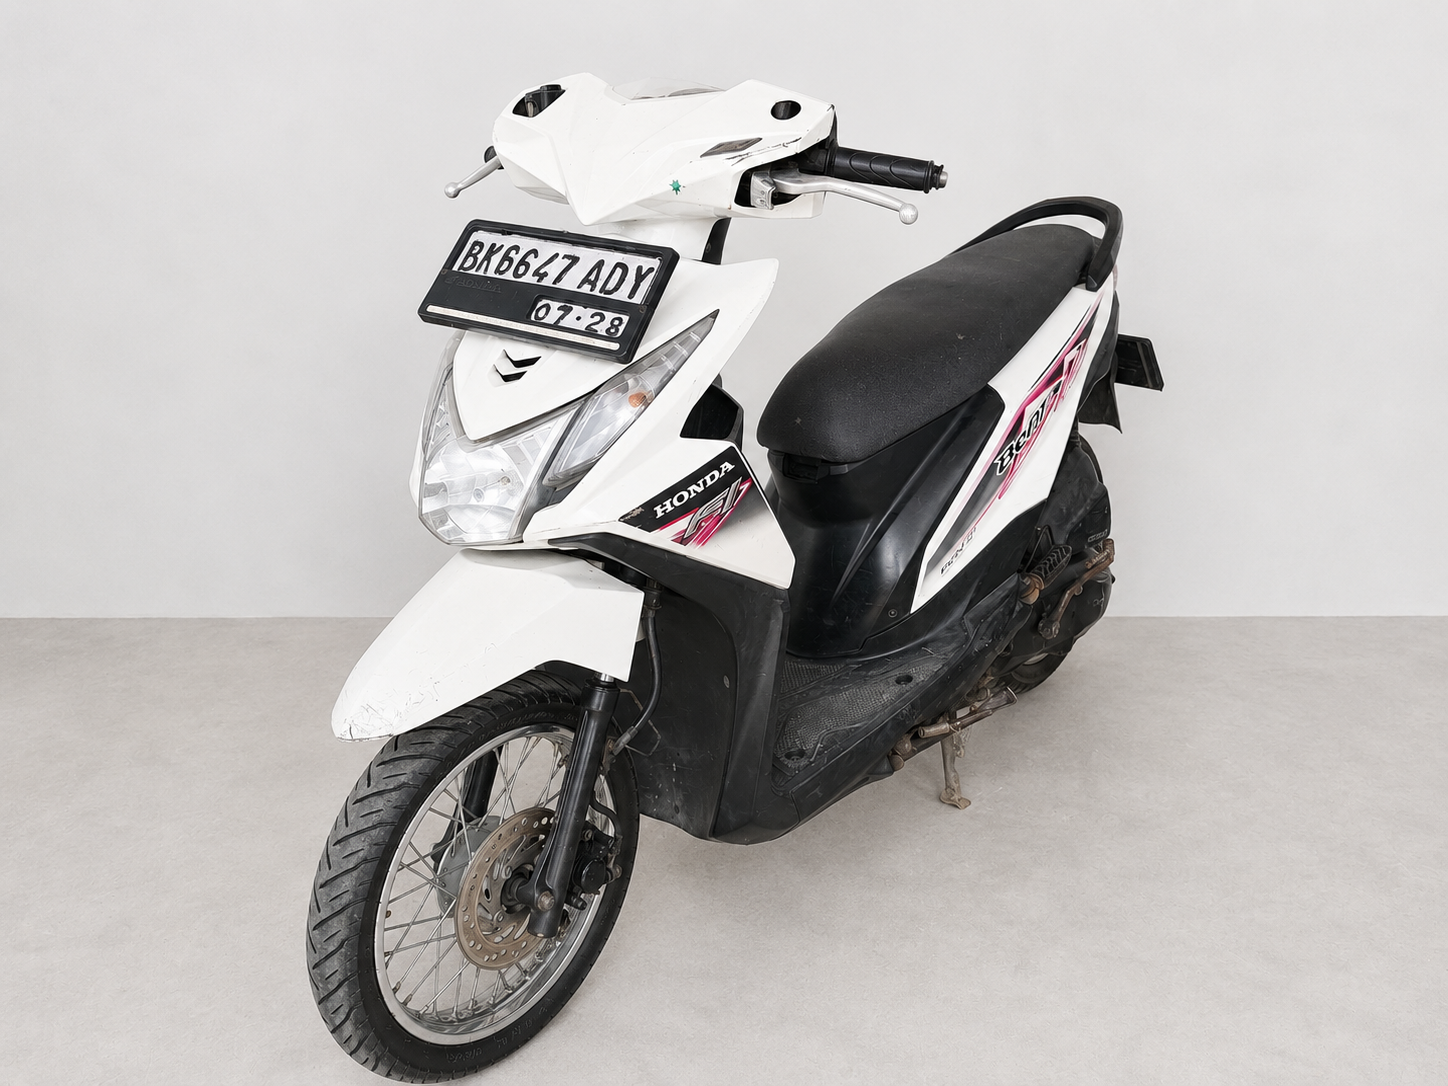
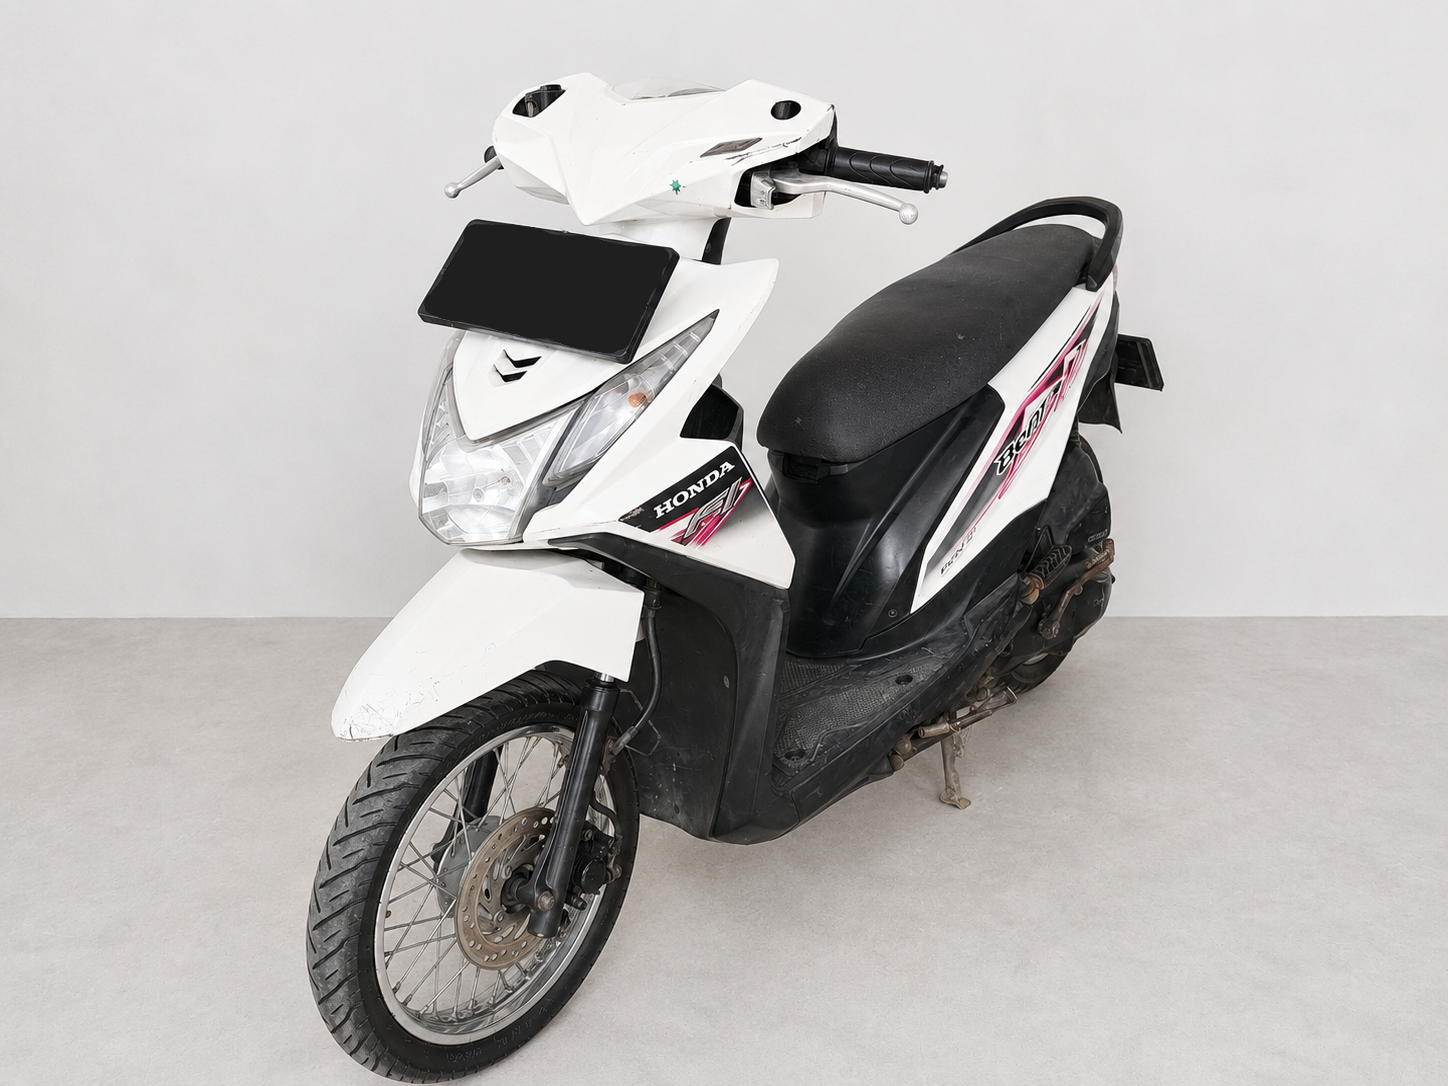
Update Code1

Changed region(s): [[0.2797, 0.1823, 0.4662, 0.3343]]

diff --git a/src/components/AboutUs.tsx b/src/components/AboutUs.tsx
@@ -10,7 +10,7 @@ export default function AboutUs() {
   const [currentImageIndex, setCurrentImageIndex] = useState(0);
   const [isHovered, setIsHovered] = useState(false);
 
-  const images = ['/images/38.png', '/images/39.png', '/images/24.png'];
+  const images = ['/images/38.png', '/images/39.png', '/images/41.png'];
 
   // Auto-play interval: slides every 3.5 seconds, pauses when hovered
   useEffect(() => {
